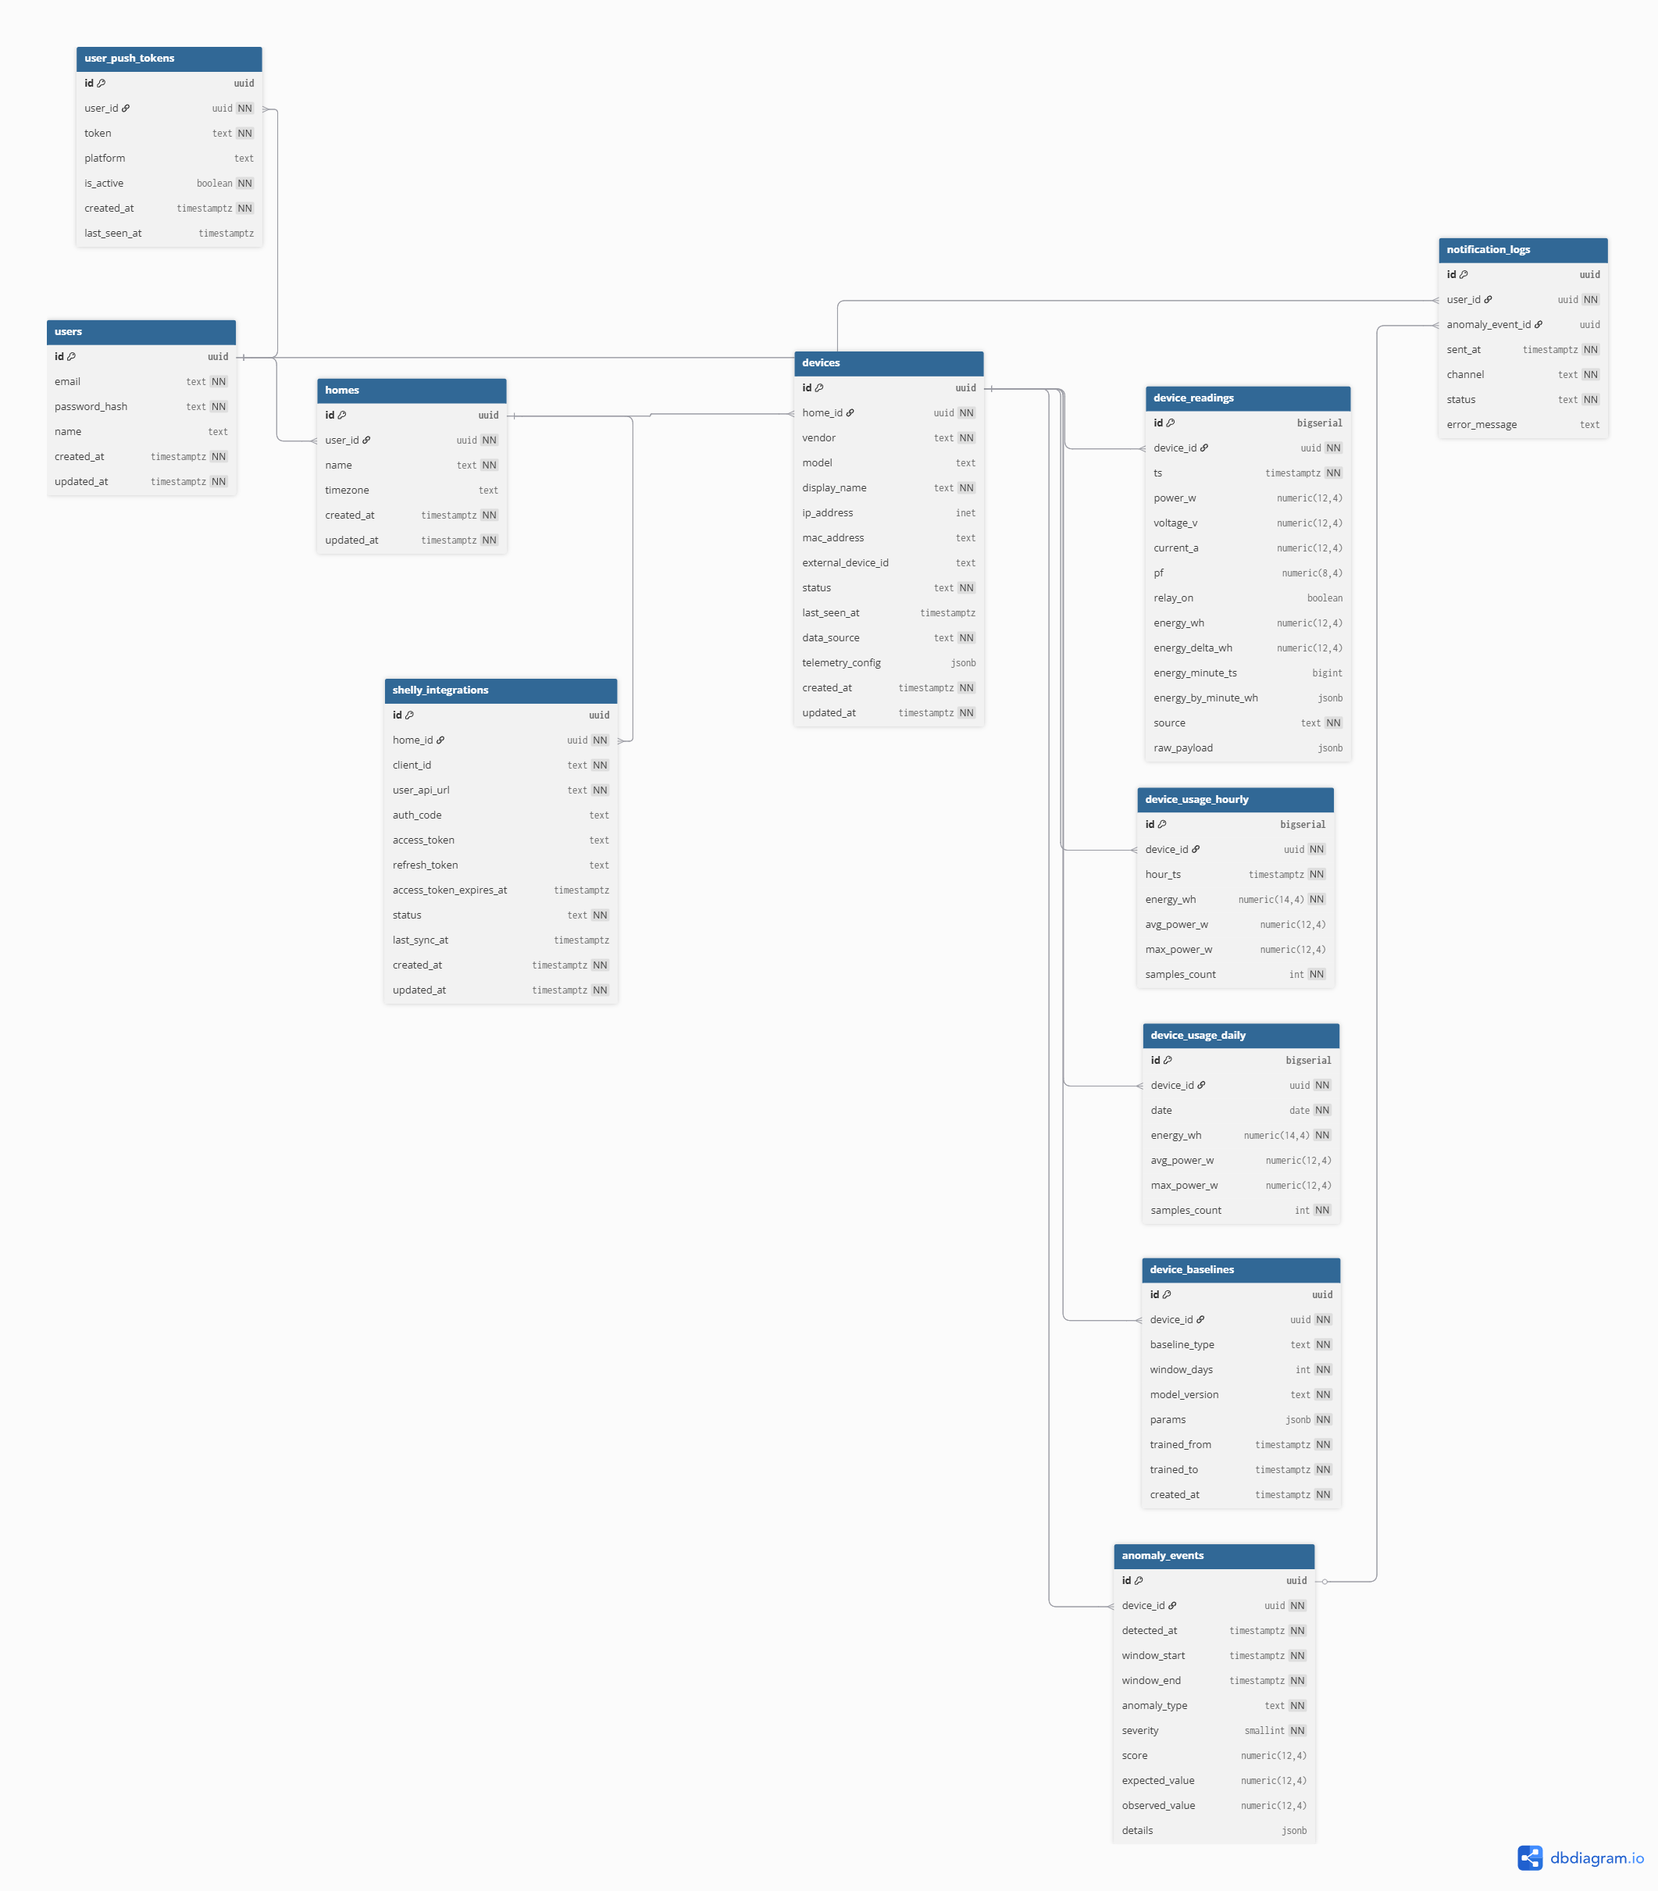
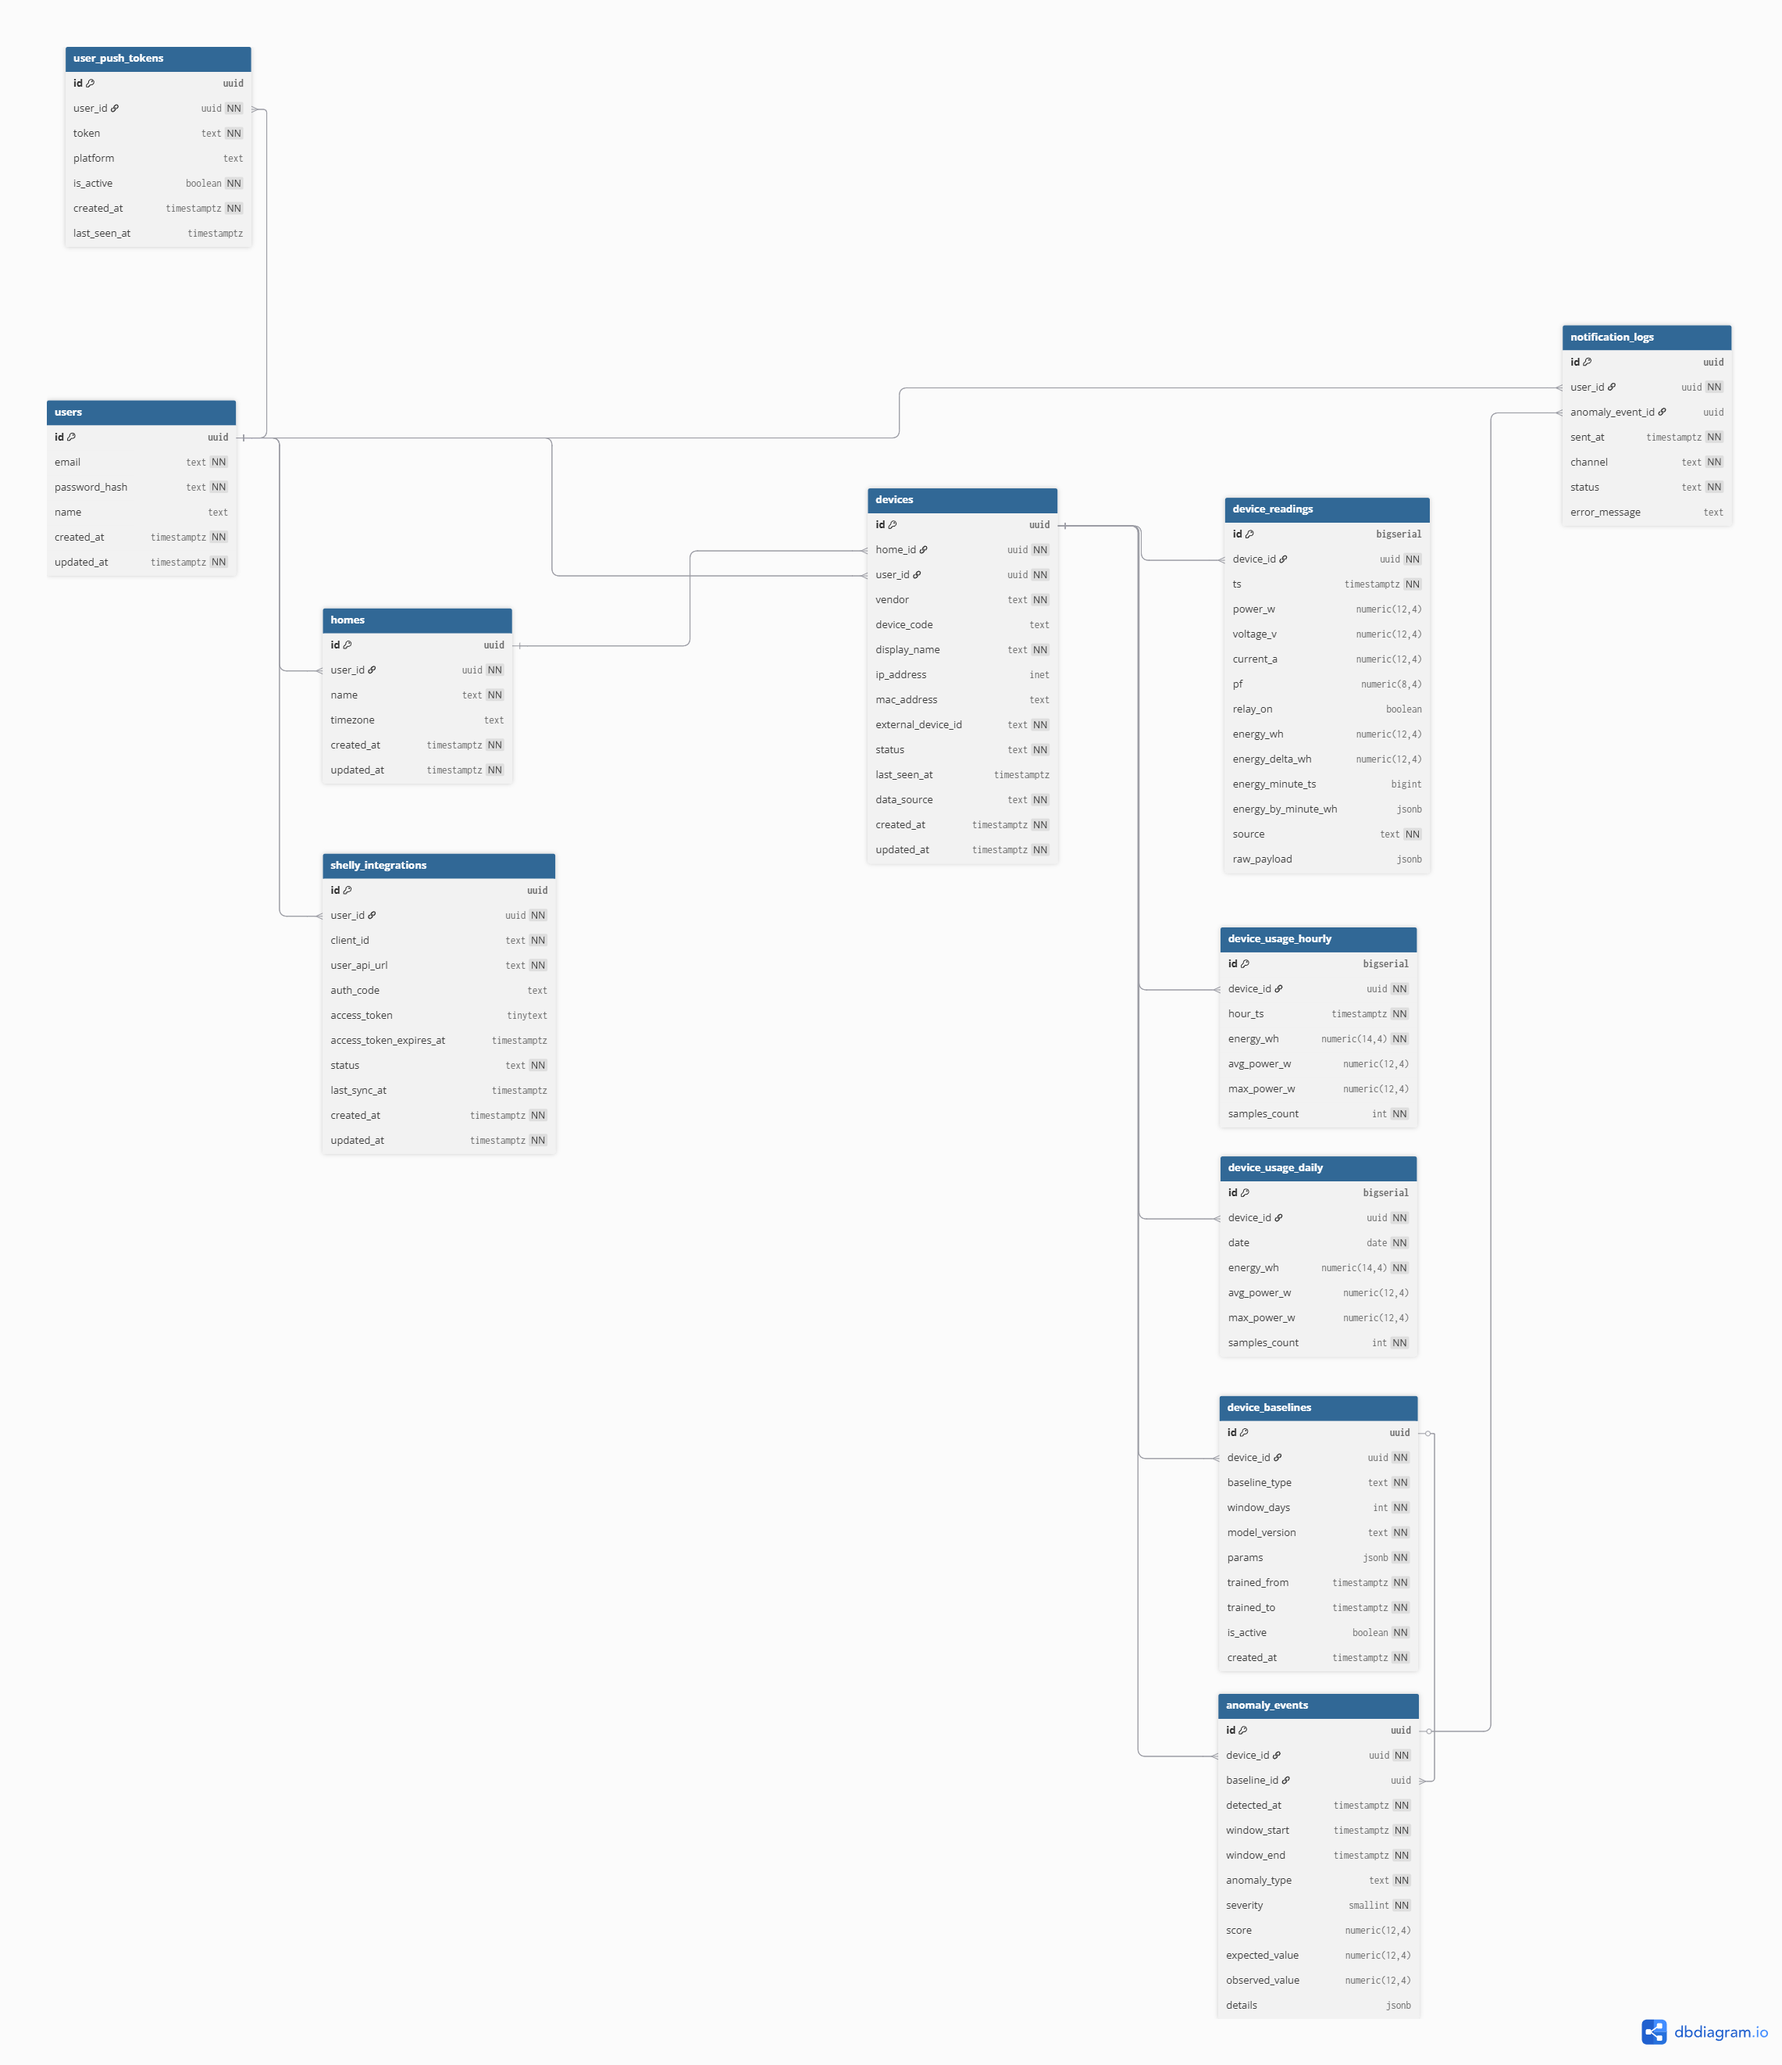
documentacion y schema prisma actualizado

diff --git a/documentation/Energy_Sentinel_AI_Arquitectura_y_BD.md b/documentation/Energy_Sentinel_AI_Arquitectura_y_BD.md
@@ -10,6 +10,8 @@ Energy Sentinel AI es una aplicación móvil (React Native) orientada al monitor
 
 ## 2. Arquitectura (Shelly Cloud + OAuth)
 
+
+**Decisión MVP:** 1 usuario de Energy Sentinel AI puede vincular **una sola** cuenta Shelly a la vez (relación 1:1).
 ### 2.1 Componentes
 
 - **App móvil (React Native):** autenticación propia, gestión de Homes y Devices, visualización de métricas y alertas.
@@ -42,14 +44,18 @@ Energy Sentinel AI es una aplicación móvil (React Native) orientada al monitor
 1. La app abre el flujo OAuth de Shelly (login/consent).
 2. Shelly redirige al callback con `state` y `code`.
 3. La app envía el `code` al backend.
-4. El backend decodifica el `code` para obtener `user_api_url` y realiza el intercambio en `/oauth/auth` para obtener `access_token` y `refresh_token`.
-5. El backend guarda los tokens y el `user_api_url` en `shelly_integrations`.
+4. El backend guarda el `auth_code` (el `code`) y lo usa para obtener/renovar un `access_token` en `/<user_api_url>/oauth/auth` cuando sea necesario.
+5. El backend persiste `user_api_url`, `access_token` y `access_token_expires_at` en `shelly_integrations`.  
+   **La app móvil no almacena tokens de Shelly** y nunca llama directamente a la API de Shelly Cloud.
 
 ### 3.3 Descubrir e importar dispositivos
 
-- El backend consulta `/device/all_status` con `Authorization: Bearer <access_token>`.
-- Se obtiene lista de dispositivos y sus métricas actuales.
-- El usuario selecciona qué dispositivos importar; el backend crea/actualiza registros en `devices` vinculados al `home_id`.
+- El backend expone un endpoint tipo `GET /shelly/devices/discovered` (ilustrativo) que **no escribe en BD**.
+- Ese endpoint consulta Shelly `GET /device/all_status` con `Authorization: Bearer <access_token>` y devuelve una lista normalizada para UI.
+- El usuario selecciona qué dispositivos importar a un Home y asigna `display_name`.
+- El backend crea/actualiza registros en `devices` vinculados al `home_id`.
+- Para evitar duplicados y facilitar el flujo multi-home, el backend puede filtrar y mostrar **solo dispositivos no registrados** comparando `_dev_info.id` contra `devices.external_device_id`.
+
 
 ### 3.4 Sincronización periódica (polling) y persistencia
 
@@ -72,13 +78,13 @@ Energy Sentinel AI es una aplicación móvil (React Native) orientada al monitor
 
 ### 4.1 Seguridad y manejo de tokens
 
-- La app móvil no almacena tokens de Shelly (`access` / `refresh`). Todo token se guarda y gestiona exclusivamente en el backend.
-- El backend guarda `auth_code` (el `code` devuelto por el callback OAuth de Shelly).
-- El backend usa el `auth_code` para reemitir el `access_token` sin requerir que el usuario vuelva a iniciar sesión.
-- **Regla de renovación:** antes de llamar a Shelly Cloud, si `access_token_expires_at <= now() + margen` (ej. 60–120s), entonces se ejecuta la renovación.
-- **Renovación (estrategia MVP):** el backend llama a `https://<user_api_url>/oauth/auth` con `grant_type=code` y el `auth_code` almacenado, y actualiza `access_token` y `access_token_expires_at`.
+- La app móvil no almacena tokens de Shelly. Todo token se guarda y gestiona exclusivamente en el backend.
+- El backend guarda `auth_code` (el `code` devuelto por el callback OAuth de Shelly) para poder reemitir un `access_token` sin requerir re-login.
+- El backend mantiene `access_token` y `access_token_expires_at` para ejecutar polling y endpoints de descubrimiento/importación.
+- **Regla de renovación:** antes de llamar a Shelly Cloud, si `access_token_expires_at <= now() + margen` (ej. 60–120s), el backend reemite un nuevo `access_token` usando `/<user_api_url>/oauth/auth`.
+- `user_api_url` puede cambiar (migración de servidor). Por ello se persiste y se **actualiza** cada vez que se reemite el token, usando el valor más reciente disponible.
 - Si la renovación falla (revocación, credenciales cambiadas, token inválido), la integración cambia a `needs_reauth` y el usuario debe reconectar Shelly.
-- `user_api_url` se obtiene del `auth_code` o del `access_token` y se persiste para enrutar correctamente las llamadas.
+
 
 ### 4.2 Inventario vs telemetría
 
@@ -94,9 +100,12 @@ Energy Sentinel AI es una aplicación móvil (React Native) orientada al monitor
 
 ### 4.4 Agregación (hourly y daily)
 
-- `device_usage_hourly.energy_wh` = suma de `energy_delta_wh` en la hora (excluyendo `NULL`).
-- `device_usage_daily.energy_wh` = suma de `energy_delta_wh` en el día según `homes.timezone`.
+- `device_usage_hourly` almacena **1 fila por dispositivo por hora** (bucket fijo del reloj).  
+  `energy_wh` = suma de `energy_delta_wh` dentro del rango `[hour_ts, hour_ts + 1h)`.
+- `device_usage_daily` almacena **1 fila por dispositivo por día** (según `homes.timezone`).  
+  Se recomienda calcularlo desde `device_usage_hourly` (24 filas) para reducir costo de cómputo.
 - Los jobs deben ser idempotentes mediante `UPSERT` usando los índices únicos definidos.
+
 
 ### 4.5 Estado online/offline
 
@@ -142,12 +151,11 @@ Las siguientes tablas documentan cada entidad y sus atributos. La columna **Desc
 | Atributo                  | Descripción                                                                                                                        |
 | ------------------------- | ---------------------------------------------------------------------------------------------------------------------------------- |
 | `id`                      | Identificador único de la integración (UUID).                                                                                      |
-| `home_id`                 | Home al que pertenece la integración (FK a `homes.id`).                                                                            |
+| `user_id`                 | Usuario al que pertenece la integración (FK a `users.id`). **Relación 1:1 (MVP)**.                                                    |
 | `client_id`               | Client ID OAuth utilizado; por defecto `shelly-diy` para integraciones DIY.                                                        |
 | `user_api_url`            | Host base de Shelly Cloud para el usuario, obtenido del `code` / `access_token` (enruta las llamadas).                             |
 | `auth_code`               | Código devuelto por el flujo OAuth (formato JWT-like). Se almacena para reemitir `access_token` sin solicitar re-login al usuario. |
-| `access_token`            | Bearer token (JWT) de Shelly Cloud, de vida corta.                                                                                 |
-| `refresh_token`           | Token de refresco para renovar el `access_token` cuando expire.                                                                    |
+| `access_token`            | Bearer token (JWT) de Shelly Cloud usado por el backend para llamadas HTTP. No se expone a la app móvil.                               |
 | `access_token_expires_at` | Fecha/hora estimada de expiración del `access_token` (opcional; puede derivarse del JWT).                                          |
 | `status`                  | Estado de la integración: `active`, `needs_reauth`, `revoked`.                                                                     |
 | `last_sync_at`            | Marca temporal del último sync exitoso contra Shelly Cloud.                                                                        |
@@ -159,13 +167,15 @@ Las siguientes tablas documentan cada entidad y sus atributos. La columna **Desc
 | Atributo             | Descripción                                                                                 |
 | -------------------- | ------------------------------------------------------------------------------------------- |
 | `id`                 | Identificador interno del dispositivo (UUID).                                               |
-| `home_id`            | Home al que pertenece el dispositivo (FK a `homes.id`).                                     |
+| `home_id`            | Home al que pertenece el dispositivo (FK a `homes.id`).                                                          |
+| `user_id`            | Usuario dueño del dispositivo (FK a `users.id`). Se denormaliza para consultas rápidas y evitar duplicados.       |
 | `vendor`             | Proveedor/fabricante (por ejemplo, `shelly`).                                               |
+| `device_code`        | Código/modelo reportado por Shelly (ej. `S4PL-00116US`). Útil para UI y compatibilidad por tipo.                       |
 | `model`              | Modelo del dispositivo (si se detecta o se captura).                                        |
 | `display_name`       | Nombre visible configurado por el usuario (por ejemplo, `Pantalla Sala`).                   |
 | `ip_address`         | IP local (opcional). Útil para modo LAN futuro o diagnóstico.                               |
 | `mac_address`        | Dirección MAC (opcional). Útil para inventario y troubleshooting.                           |
-| `external_device_id` | Identificador del dispositivo en Shelly Cloud. Se guarda como texto por formatos variables. |
+| `external_device_id` | Identificador del dispositivo en Shelly Cloud (`_dev_info.id`). Se usa para mapear lecturas y evitar duplicados.        |
 | `status`             | Estado lógico: `active`, `disabled`, etc.                                                   |
 | `last_seen_at`       | Última vez que se obtuvo telemetría válida para el dispositivo.                             |
 | `data_source`        | Origen de datos principal: `shelly_cloud`, `shelly_lan`, `manual_import`.                   |

diff --git a/documentation/Energy_Sentinel_Backend_Estructura_Modular_TS.md b/documentation/Energy_Sentinel_Backend_Estructura_Modular_TS.md
@@ -112,10 +112,15 @@ src/
 
 **Responsabilidades principales:**
 
-- Endpoints de integración OAuth: `start`, `callback`, `reconnect`, `sync`.
-- Gestión de tokens y `user_api_url` por Home.
+- Endpoints de integración OAuth: `start`, `callback`, `reconnect`.
+- Persistencia 1:1 por usuario en `shelly_integrations` (guardar `auth_code`, `access_token`, `access_token_expires_at`, `user_api_url`).
 - Cliente HTTP encapsulado (`shelly.client.ts`) y mapeo de payloads (`shelly.mapper.ts`).
-- Función central `getValidAccessToken(homeId)` para reemitir/renovar access tokens.
+- Función central `getValidAccessToken(userId)`:
+  - devuelve un `access_token` vigente (si está por expirar, reemite usando `auth_code`)
+  - actualiza `user_api_url` si cambia
+- Endpoint “discover” stateless (ilustrativo): `GET /shelly/devices/discovered` (no escribe en BD).
+- Endpoint de importación (invocado desde devices/homes): crear filas en `devices` con `external_device_id` y `display_name`.
+
 
 **Criterio de “listo”:**
 
@@ -137,7 +142,7 @@ src/
 
 **Responsabilidades principales:**
 
-- Job de polling (cada 60s): por integración activa, valida token, consulta `/device/all_status`, inserta lecturas.
+- Job de polling (cada 60s): por integración activa (usuario), valida token, consulta `/device/all_status`, inserta lecturas.
 - Jobs de agregación (hourly/daily): `UPSERT` por índices únicos.
 - Jobs de baseline/anomalías (fase 2).
 
@@ -164,8 +169,8 @@ src/
 1. **Base de datos + Prisma schema + migración inicial.**
 2. **Módulo auth** (`register/login + JWT`).
 3. **Módulo homes** (CRUD).
-4. **Módulo shelly:** callback (guardar integración + `auth_code`).
-5. **Módulo shelly:** sync (importar devices).
+4. **Módulo shelly:** callback (guardar integración 1:1 por usuario + `auth_code`).
+5. **Módulo shelly:** discover (stateless) + importación de devices a Home.
 6. **Módulo telemetry:** inserción de readings + endpoint latest.
 7. **Job polling** (cada 60s).
 8. **Jobs de agregación** hourly/daily.
